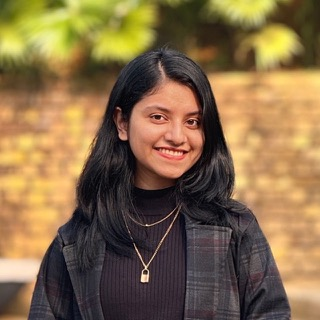
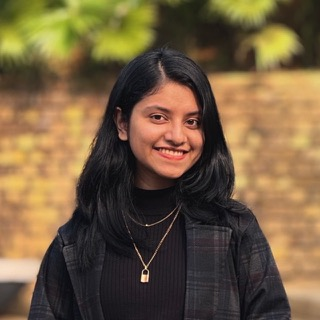
Less processed portrait

diff --git a/index.html b/index.html
@@ -29,7 +29,7 @@
 <ul class="interests" aria-label="Research interests"><li>Machine learning</li><li>Deep generative models</li><li>Graph neural networks</li><li>Computational biology</li><li>Health informatics</li></ul>
 <div class="actions"><a class="btn primary" href="mailto:farriha.one@gmail.com"><i class="ti ti-mail"></i>Email</a><a class="btn" href="farriha-afnan-cv.pdf"><i class="ti ti-file-text"></i>CV</a><a class="btn" href="https://www.linkedin.com/in/farriha-afnan"><i class="ti ti-brand-linkedin"></i>LinkedIn</a></div>
 </div>
-<div class="portrait-wrap"><div class="portrait"><picture><source media="(max-width:640px)" srcset="assets/farriha-face.jpg"><img src="assets/farriha.jpg" alt="Portrait of Farriha Afnan" width="900" height="900"></picture></div></div>
+<div class="portrait-wrap"><div class="portrait"><picture><source media="(max-width:640px)" srcset="assets/farriha-face.jpg?v=2"><img src="assets/farriha.jpg?v=2" alt="Portrait of Farriha Afnan" width="900" height="900"></picture></div></div>
 </section>
 </div></div>
 <div class="wrap">
@@ -93,7 +93,7 @@
 <div class="ce-actions"><button class="cbtn copy" data-copy="farriha.one@gmail.com"><i class="ti ti-copy"></i><span>Copy email</span></button><a class="cbtn" href="farriha-afnan-cv.pdf"><i class="ti ti-file-download"></i>CV</a><a class="cbtn" href="https://www.linkedin.com/in/farriha-afnan"><i class="ti ti-brand-linkedin"></i>LinkedIn</a></div>
 </div>
 <aside class="ce-side">
-<div class="who"><img src="assets/farriha-face.jpg" alt=""><span><b>Farriha Afnan</b><small>Adjunct Lecturer, CSE, BUET</small></span></div>
+<div class="who"><img src="assets/farriha-face.jpg?v=2" alt=""><span><b>Farriha Afnan</b><small>Adjunct Lecturer, CSE, BUET</small></span></div>
 <ul class="ce-facts"><li><i class="ti ti-map-pin"></i>Dhaka, Bangladesh</li></ul>
 </aside>
 </div>

diff --git a/projects.html b/projects.html
@@ -90,7 +90,7 @@
 <div class="ce-actions"><button class="cbtn copy" data-copy="farriha.one@gmail.com"><i class="ti ti-copy"></i><span>Copy email</span></button><a class="cbtn" href="farriha-afnan-cv.pdf"><i class="ti ti-file-download"></i>CV</a><a class="cbtn" href="https://www.linkedin.com/in/farriha-afnan"><i class="ti ti-brand-linkedin"></i>LinkedIn</a></div>
 </div>
 <aside class="ce-side">
-<div class="who"><img src="assets/farriha-face.jpg" alt=""><span><b>Farriha Afnan</b><small>Adjunct Lecturer, CSE, BUET</small></span></div>
+<div class="who"><img src="assets/farriha-face.jpg?v=2" alt=""><span><b>Farriha Afnan</b><small>Adjunct Lecturer, CSE, BUET</small></span></div>
 <ul class="ce-facts"><li><i class="ti ti-map-pin"></i>Dhaka, Bangladesh</li></ul>
 </aside>
 </div>

diff --git a/research.html b/research.html
@@ -87,7 +87,7 @@
 <div class="ce-actions"><button class="cbtn copy" data-copy="farriha.one@gmail.com"><i class="ti ti-copy"></i><span>Copy email</span></button><a class="cbtn" href="farriha-afnan-cv.pdf"><i class="ti ti-file-download"></i>CV</a><a class="cbtn" href="https://www.linkedin.com/in/farriha-afnan"><i class="ti ti-brand-linkedin"></i>LinkedIn</a></div>
 </div>
 <aside class="ce-side">
-<div class="who"><img src="assets/farriha-face.jpg" alt=""><span><b>Farriha Afnan</b><small>Adjunct Lecturer, CSE, BUET</small></span></div>
+<div class="who"><img src="assets/farriha-face.jpg?v=2" alt=""><span><b>Farriha Afnan</b><small>Adjunct Lecturer, CSE, BUET</small></span></div>
 <ul class="ce-facts"><li><i class="ti ti-map-pin"></i>Dhaka, Bangladesh</li></ul>
 </aside>
 </div>
